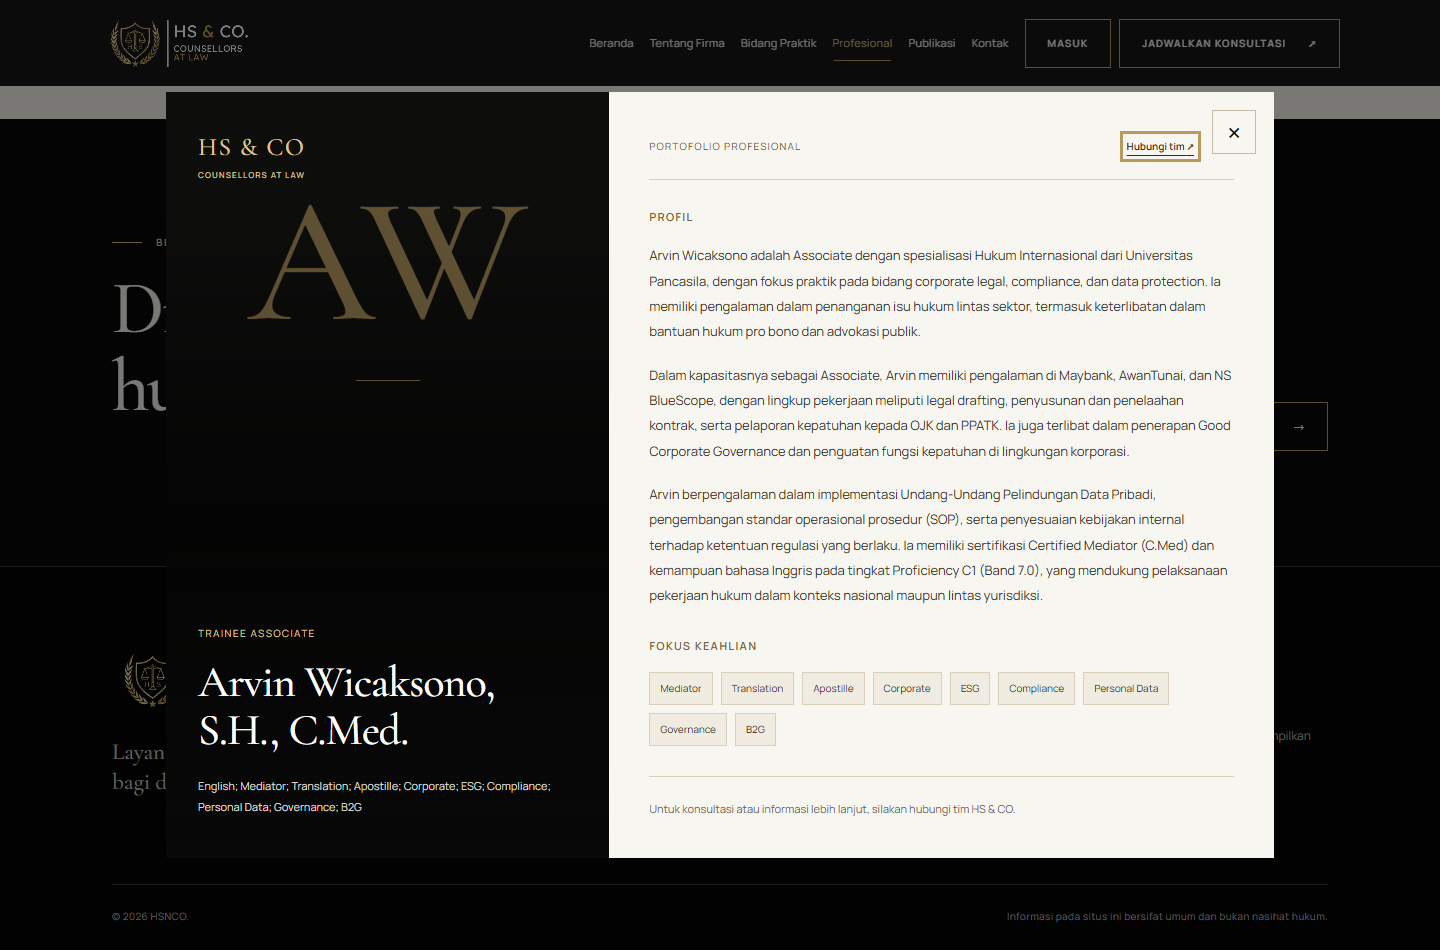
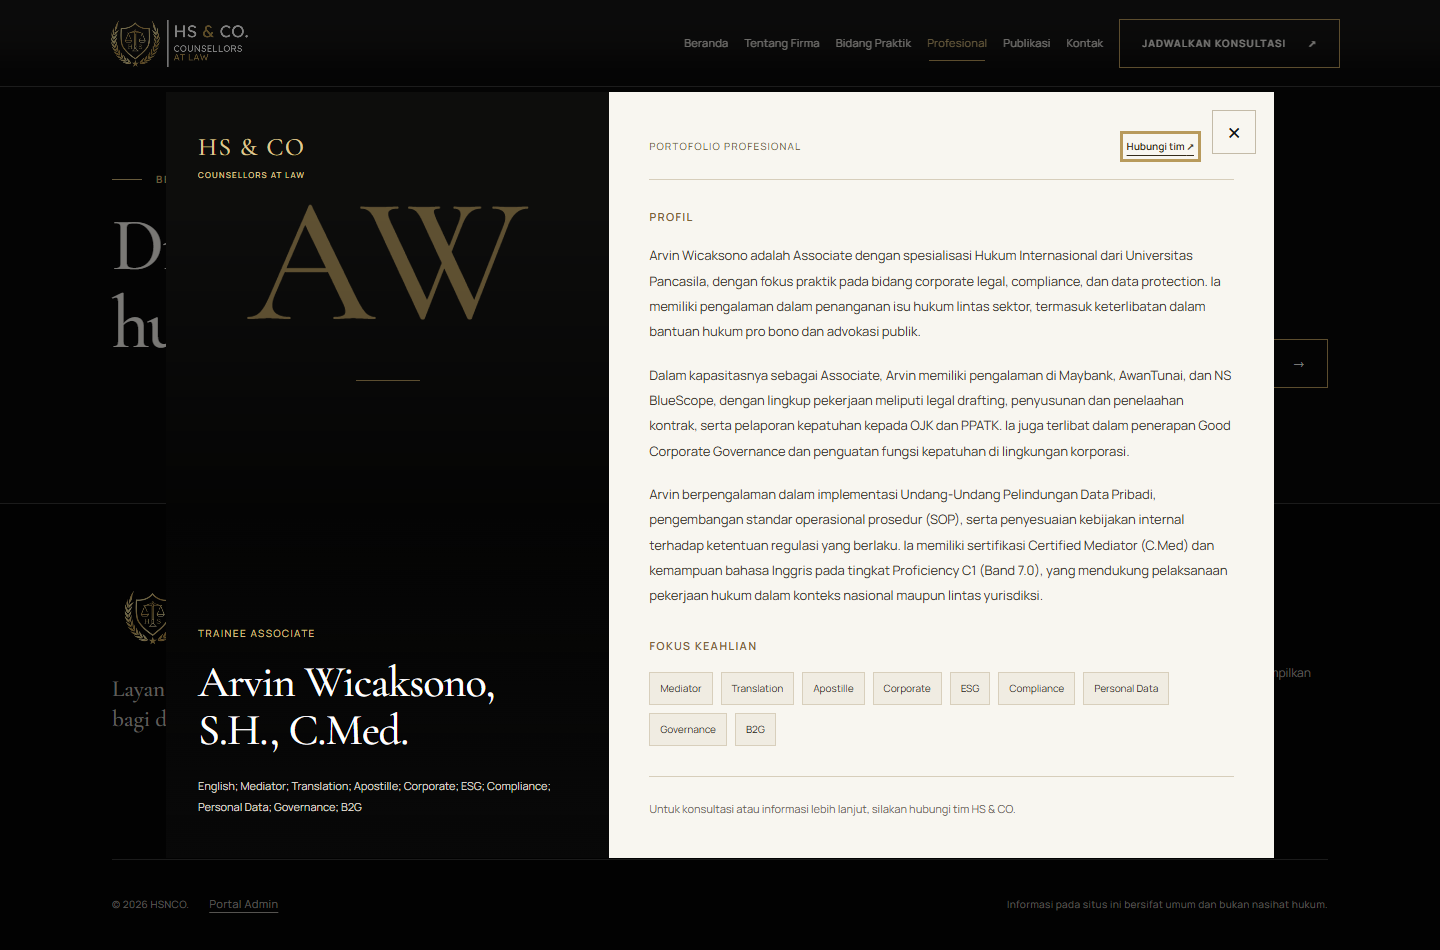
Move admin access to footer, add contact map and clickable profile photos

diff --git a/public/assets/css/team.css b/public/assets/css/team.css
@@ -4,3 +4,4 @@
 .portfolio-modal{--bs-modal-width:1140px}.portfolio-modal .modal-dialog{margin:28px auto;padding-inline:16px}.professional-portfolio{display:grid;grid-template-columns:minmax(0,40%) minmax(0,60%);border:0;border-radius:0;background:#f8f6f0;overflow:hidden;position:relative}.portfolio-close{position:absolute;right:18px;top:18px;z-index:3;width:44px;height:44px;border:1px solid #c4bba8;background:#f8f6f0;color:#161616;font-size:28px;line-height:1;display:grid;place-items:center}.portfolio-close:hover{background:#e4d7bb}.portfolio-visual{position:relative;background:#0e0e0d;min-height:660px;color:#f5f1e8;overflow:hidden;isolation:isolate}.portfolio-visual>img{position:absolute;width:100%;height:100%;object-fit:cover;object-position:center top;z-index:-2}.portfolio-visual:after{content:"";position:absolute;inset:0;background:linear-gradient(180deg,rgba(0,0,0,.08) 15%,rgba(0,0,0,.7) 55%,#080808 100%);z-index:-1}.portfolio-monogram{position:absolute;left:0;right:0;top:80px;text-align:center;font:400 clamp(110px,13vw,180px)/1 var(--font-heading);color:#b89a5c;opacity:.48}.portfolio-monogram:after{content:"";display:block;width:64px;height:1px;background:var(--brand-gold);margin:28px auto}.portfolio-identity{position:relative;height:100%;display:flex;flex-direction:column;justify-content:flex-end;padding:40px 32px}.portfolio-firm{font:500 25px/1.2 var(--font-heading);letter-spacing:.06em;color:#dfc793;margin-bottom:auto;padding-bottom:120px}.portfolio-firm>span{display:block;font:500 8px/1.7 var(--font-body);letter-spacing:.15em;margin-top:6px}.portfolio-identity>[data-portfolio-role]{font-size:10px;line-height:1.7;letter-spacing:.14em;text-transform:uppercase;color:#dec18a;margin-bottom:16px}.portfolio-modal #detailTitle{font-size:clamp(30px,3.1vw,44px);line-height:1.1;letter-spacing:-.02em;color:#fff;margin:0 0 22px}.portfolio-identity .portfolio-focus{font-size:11px;line-height:1.9;color:#ded8cc;margin:0}.portfolio-content{padding:38px 40px;color:#38342c;min-width:0}.portfolio-top{display:flex;align-items:center;justify-content:space-between;gap:16px;padding:8px 40px 24px 0;border-bottom:1px solid #d7cebb;font-size:10px;line-height:1.7}.portfolio-top>span{text-transform:uppercase;letter-spacing:.12em;color:#6d5d3b}.portfolio-top a{font-weight:600;text-decoration:underline;text-underline-offset:5px;color:#342b1b}.portfolio-block{padding-top:28px}.portfolio-block h3{font-family:var(--font-body);font-size:11px;font-weight:600;line-height:1.6;letter-spacing:.12em;text-transform:uppercase;color:#7b6337;margin:0 0 18px}.portfolio-biography p{font-size:13px;line-height:1.95;margin-bottom:18px}.portfolio-biography p:last-child{margin-bottom:0}.portfolio-tags{display:flex;flex-wrap:wrap;gap:8px}.portfolio-tags span{display:inline-block;border:1px solid #d8cfbc;padding:7px 10px;background:#f0ece2;font-size:10px;line-height:1.7}.portfolio-block ul{padding-left:18px;font-size:13px;line-height:1.9;margin:0}.portfolio-note{border-top:1px solid #d7cebb;padding-top:22px;margin:30px 0 0;color:#6c6557;font-size:11px;line-height:1.9}.portfolio-modal [hidden]{display:none!important}.portfolio-modal :focus-visible{outline:3px solid #b89a5c;outline-offset:4px}
 @media(max-width:991.98px){.professional-portfolio{grid-template-columns:minmax(0,42%) minmax(0,58%)}.portfolio-content{padding:30px 24px}.portfolio-identity{padding:32px 24px}.portfolio-top{flex-direction:column;align-items:flex-start;padding-right:40px}.portfolio-visual{min-height:580px}}
 @media(max-width:767.98px){.portfolio-modal .modal-dialog{margin:12px auto;padding-inline:10px}.professional-portfolio{grid-template-columns:minmax(0,1fr)}.portfolio-visual{min-height:390px}.portfolio-identity{padding:28px 24px}.portfolio-firm{padding-bottom:130px;margin:0}.portfolio-monogram{top:80px;font-size:140px}.portfolio-modal #detailTitle{font-size:34px;max-width:500px}.portfolio-close{position:fixed;right:26px;top:26px}.portfolio-content{padding:28px 24px}.portfolio-top{flex-direction:row;align-items:center;padding:0 0 20px}.portfolio-has-photo .portfolio-visual{min-height:520px}}
+.professional-photo-trigger{position:relative;display:block;width:100%;border:0;padding:0;background:transparent;color:inherit;text-align:inherit;cursor:pointer}.professional-photo-trigger:after{content:"";position:absolute;inset:0;border:1px solid transparent;pointer-events:none;transition:border-color .25s}.professional-photo-trigger:hover:after{border-color:var(--brand-gold-light)}.professional-photo-trigger:focus-visible{outline:3px solid var(--brand-gold-dark);outline-offset:5px}.professional-photo-trigger .person-photo{width:100%;margin:0}

diff --git a/public/assets/css/contact.css b/public/assets/css/contact.css
@@ -1,0 +1,2 @@
+.contact-location{background:#f7f6f2}.contact-location .eyebrow{color:var(--brand-gold-dark)}.contact-location h2{font-size:clamp(38px,4.2vw,62px);line-height:1.1;margin:0}.contact-location-intro{font-size:13px;line-height:1.9;color:var(--brand-text);max-width:420px;margin:0}.contact-map-panel{border:1px solid #d6cebe}.contact-map-information{background:#111113;color:var(--brand-ivory);padding:36px 30px;display:flex;flex-direction:column;align-items:flex-start;border-top:2px solid var(--brand-gold)}.contact-map-label{font-size:9px;letter-spacing:.13em;line-height:1.9;color:var(--brand-gold-light);margin-bottom:30px}.contact-map-information h3{font-size:34px;margin-bottom:20px}.contact-map-information address{font-size:14px;line-height:1.9;color:#ccc5b9;margin-bottom:28px;max-width:300px}.contact-map-link{display:inline-flex;justify-content:space-between;align-items:center;gap:20px;background:var(--brand-gold-light);color:var(--brand-ink);padding:14px 17px;min-height:48px;font-size:11px;font-weight:600}.contact-map-link:hover{background:#e3c995;color:var(--brand-ink)}.contact-map-enquiry{display:inline-flex;align-items:center;gap:24px;font-size:11px;margin-top:16px;min-height:44px;border-bottom:1px solid #786742;color:#e0d3b9}.contact-map-enquiry:hover{color:#fff}.contact-map-frame{background:#e5e2db;min-height:440px}.contact-map-frame iframe{display:block;border:0;width:100%;height:100%;min-height:440px}.contact-map-note{font-size:11px;color:#696359;margin:18px 0 0;line-height:1.8}.contact-map-information :focus-visible{outline:3px solid #dfc58d;outline-offset:5px}
+@media(max-width:767.98px){.contact-map-information{padding:28px 24px}.contact-map-label{margin-bottom:22px}.contact-map-frame,.contact-map-frame iframe{min-height:340px}.contact-map-information address{max-width:none}.contact-map-link{width:100%}}

diff --git a/public/assets/css/components.css b/public/assets/css/components.css
@@ -9,3 +9,5 @@
 .detail-photo{width:100%;height:100%;min-height:390px;max-height:650px;object-fit:cover;filter:grayscale(1)}
 .row-number{color:var(--brand-gold-dark);font-size:11px;font-weight:600;letter-spacing:.08em}
 #main:focus-visible{outline:3px solid var(--brand-gold-light);outline-offset:5px}
+
+.footer-access{display:flex;align-items:center;gap:20px;flex-wrap:wrap}.footer-admin-link{display:inline-flex;align-items:center;min-height:44px;color:#aaa7a0;font-size:11px;text-decoration:underline;text-underline-offset:4px}.footer-admin-link:hover{color:var(--brand-gold-light)}.footer-bottom>span{align-self:center}@media(max-width:575.98px){.footer-bottom>span{align-self:flex-start}}

diff --git a/resources/views/frontend/partials/contact-map.blade.php b/resources/views/frontend/partials/contact-map.blade.php
@@ -1,0 +1,18 @@
+@php
+    $mapAddress = $verifiedContactDetails['address'] ?: config('contact-map.address');
+    $mapQuery = rawurlencode($mapAddress);
+    $mapUrl = 'https://www.google.com/maps/search/?api=1&query='.$mapQuery;
+    $embedUrl = 'https://maps.google.com/maps?q='.$mapQuery.'&z=16&output=embed';
+@endphp
+@if(filled($mapAddress))
+<section class="section-space contact-location surface-light" id="lokasi-kantor" aria-labelledby="contact-location-title">
+    <div class="container">
+        <div class="row g-4 align-items-end mb-4"><div class="col-lg-7"><p class="eyebrow">Lokasi kantor</p><h2 id="contact-location-title">Lokasi kantor<br>HS &amp; CO.</h2></div><div class="col-lg-5"><p class="contact-location-intro">Lihat lokasi pada peta atau buka Google Maps untuk merencanakan perjalanan Anda.</p></div></div>
+        <div class="row g-0 contact-map-panel">
+            <div class="col-lg-4 contact-map-information"><span class="contact-map-label">HS &amp; CO / COUNSELLORS AT LAW</span><h3>Kantor kami</h3><address>{{ $mapAddress }}</address><a class="contact-map-link" href="{{ $mapUrl }}" target="_blank" rel="noopener noreferrer">Buka di Google Maps <span aria-hidden="true">&#8599;</span><span class="visually-hidden"> (tab baru)</span></a><a class="contact-map-enquiry" href="#enquiry">Hubungi tim kami <span aria-hidden="true">&rarr;</span></a></div>
+            <div class="col-lg-8 contact-map-frame"><iframe src="{{ $embedUrl }}" title="Peta alamat kantor HS &amp; CO: {{ $mapAddress }}" width="100%" height="440" loading="lazy" referrerpolicy="no-referrer-when-downgrade" allowfullscreen></iframe></div>
+        </div>
+        <p class="contact-map-note">Peta disediakan oleh Google Maps berdasarkan alamat kantor. Jika peta tidak tampil, gunakan tautan Buka di Google Maps.</p>
+    </div>
+</section>
+@endif

diff --git a/resources/views/frontend/contact.blade.php b/resources/views/frontend/contact.blade.php
@@ -19,6 +19,9 @@
 @section('description')
 {{ $bannerContent['description'] ?? 'Sampaikan kebutuhan hukum Anda kepada HSNCO melalui formulir enquiry.' }}
 @endsection
+@push('styles')
+<link rel="stylesheet" href="{{ asset('assets/css/contact.css') }}?v={{ filemtime(public_path('assets/css/contact.css')) }}">
+@endpush
 @section('content')
 @if (! $banner || $banner->is_visible)
 <x-frontend.page-banner current="Kontak" :eyebrow="$bannerContent['eyebrow'] ?? 'Mulai percakapan'"><x-slot:heading>{!! nl2br(e($banner?->heading ?? 'Nasihat yang jelas. Dimulai di sini.')) !!}</x-slot:heading><x-slot:intro>{!! app(\App\Services\Cms\RichTextSanitizer::class)->sanitize($bannerContent['description'] ?? 'Sampaikan kebutuhan hukum yang sedang Anda hadapi. Tim HSNCO akan meninjau permintaan awal Anda.') !!}</x-slot:intro></x-frontend.page-banner>
@@ -37,6 +40,8 @@
     @if (! $verifiedContactDetails['address'] && ! $verifiedContactDetails['phone'] && ! $verifiedContactDetails['email'])<p class="content-notice">Informasi kontak langsung akan ditampilkan setelah diverifikasi.</p>@endif
 </div><div class="col-lg-7"><x-frontend.enquiry-form prefix="contact" /></div></div></div></section>
 @endif
+
+@include('frontend.partials.contact-map')
 
 @if (! $faqSection || $faqSection->is_visible)
 <section class="section-space surface-dark"><div class="container"><div class="row g-4"><div class="col-lg-5"><p class="eyebrow">{{ $faqContent['eyebrow'] ?? 'Sebelum menghubungi kami' }}</p><x-frontend.section-heading>{!! nl2br(e($faqSection?->heading ?? 'Awal percakapan yang bermakna.')) !!}</x-frontend.section-heading></div><div class="col-lg-7"><div class="accordion accordion-brand" id="contactQuestions">

diff --git a/resources/views/components/frontend/professional-card.blade.php b/resources/views/components/frontend/professional-card.blade.php
@@ -5,11 +5,13 @@
     $initials = collect(explode(' ', preg_replace('/^(Assoc\. Prof\. Dr\.|Prof\. Dr\.|Dr\.|dr\.)\s*/', '', $professional->name)))->take(2)->map(fn ($part) => mb_substr($part, 0, 1))->implode('');
 @endphp
 <article class="col-md-6 col-lg-4" data-profile-card data-level="{{ $professional->level }}" data-search="{{ $searchText }}">
+    <button class="professional-photo-trigger" type="button" data-bs-toggle="modal" data-bs-target="#detailModal" data-profile="{{ $professional->slug }}" aria-label="Buka portofolio {{ $professional->name }}" aria-haspopup="dialog">
     @if ($professional->public_photo_url)
         <img class="person-photo" src="{{ $professional->public_photo_url }}" alt="{{ $professional->publicPhoto?->alt_text ?: 'Potret '.$professional->name }}" width="720" height="900" loading="lazy" decoding="async">
     @else
-        <div class="person-photo team-photo-placeholder" role="img" aria-label="Foto {{ $professional->name }} belum tersedia"><strong aria-hidden="true">{{ $initials }}</strong><span>Foto akan diperbarui</span></div>
+        <span class="person-photo team-photo-placeholder" role="img" aria-label="Foto {{ $professional->name }} belum tersedia"><strong aria-hidden="true">{{ $initials }}</strong><span>Foto akan diperbarui</span></span>
     @endif
+    </button>
     <div class="person-info">
         <p>{{ $professional->position }}</p>
         <h4>{{ $professional->name }}</h4>

diff --git a/tests/Feature/ContactMapTest.php b/tests/Feature/ContactMapTest.php
@@ -1,0 +1,18 @@
+<?php
+namespace Tests\Feature;
+use App\Models\SiteSetting;
+use Illuminate\Foundation\Testing\RefreshDatabase;
+use Tests\TestCase;
+class ContactMapTest extends TestCase
+{
+ use RefreshDatabase;
+ public function test_map_uses_owner_address_and_offers_external_link(): void
+ {
+  $this->get(route('contact'))->assertOk()->assertSee('lokasi-kantor')->assertSee('maps.google.com/maps?q=',false)->assertSee('Peta alamat kantor')->assertSee('Buka di Google Maps')->assertSee(config('contact-map.address'))->assertSee('https://www.google.com/maps/search/?api=1&amp;query=',false);
+ }
+ public function test_verified_cms_address_takes_priority_over_default(): void
+ {
+  SiteSetting::create(['key'=>'contact.details','group'=>'contact','value'=>['verified'=>true,'office_address'=>'Alamat kantor terbaru dari CMS']]);
+  $this->get(route('contact'))->assertOk()->assertSee('Alamat kantor terbaru dari CMS')->assertSee(rawurlencode('Alamat kantor terbaru dari CMS'),false)->assertDontSee(config('contact-map.address'));
+ }
+}

diff --git a/resources/views/layouts/partials/head.blade.php b/resources/views/layouts/partials/head.blade.php
@@ -14,6 +14,6 @@
 <link rel="preload" href="{{ asset('assets/fonts/manrope.woff2') }}" as="font" type="font/woff2" crossorigin>
 <link rel="stylesheet" href="{{ asset('assets/vendor/bootstrap/css/bootstrap.min.css') }}">
 @foreach(['variables','style','components',request()->routeIs('home') ? 'home' : 'inner-pages','responsive','motion'] as $sheet)
-<link rel="stylesheet" href="{{ asset('assets/css/'.$sheet.'.css') }}{{ in_array($sheet, ['motion', 'home']) ? '?v='.filemtime(public_path('assets/css/'.$sheet.'.css')) : '' }}">
+<link rel="stylesheet" href="{{ asset('assets/css/'.$sheet.'.css') }}{{ in_array($sheet, ['motion', 'home', 'components']) ? '?v='.filemtime(public_path('assets/css/'.$sheet.'.css')) : '' }}">
 @endforeach
 @if(request()->routeIs('home'))<link rel="preload" href="{{ asset('assets/images/hero.jpg') }}" as="image">@endif

diff --git a/resources/views/layouts/partials/footer.blade.php b/resources/views/layouts/partials/footer.blade.php
@@ -32,7 +32,13 @@
             </div>
         </div>
         <div class="footer-bottom">
-            <span>© {{ now()->year }} {{ $name }}.</span>
+            <div class="footer-access"><span>&copy; {{ now()->year }} {{ $name }}.</span>
+                @guest
+                    <a class="footer-admin-link" href="{{ route('login') }}">Portal Admin</a>
+                @else
+                    <a class="footer-admin-link" href="{{ route('admin.dashboard') }}">Dashboard</a>
+                @endguest
+            </div>
             <span>Informasi pada situs ini bersifat umum dan bukan nasihat hukum.</span>
         </div>
     </div>

diff --git a/resources/views/layouts/partials/navigation.blade.php b/resources/views/layouts/partials/navigation.blade.php
@@ -6,13 +6,6 @@
         </li>
     @endforeach
     <li class="nav-item ms-lg-2">
-        @guest
-            <a class="btn btn-outline-brand" href="{{ route('login') }}">Masuk</a>
-        @else
-            <a class="btn btn-outline-brand" href="{{ route('admin.dashboard') }}">Dashboard</a>
-        @endguest
-    </li>
-    <li class="nav-item ms-lg-2">
         <a class="btn btn-outline-brand" href="{{ route('contact') }}#enquiry">Jadwalkan konsultasi <span aria-hidden="true">↗</span></a>
     </li>
 </ul>

diff --git a/config/contact-map.php b/config/contact-map.php
@@ -1,0 +1,5 @@
+<?php
+return [
+    // Address supplied by the owner; verified CMS address takes priority.
+    'address' => 'Jl. Letnan Jenderal TB. Simatupang Nomor 10B, Jakarta Selatan, Indonesia',
+];
